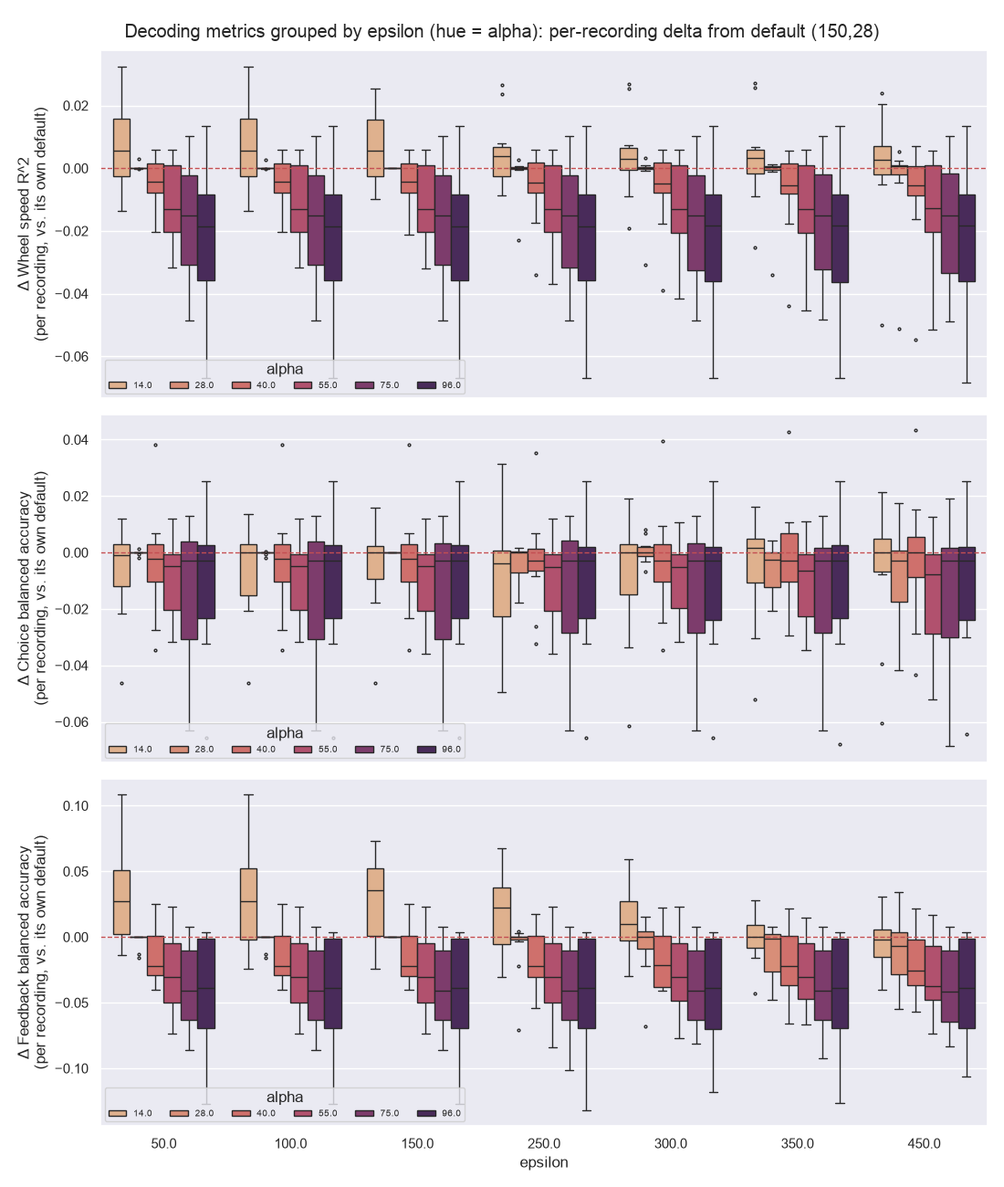
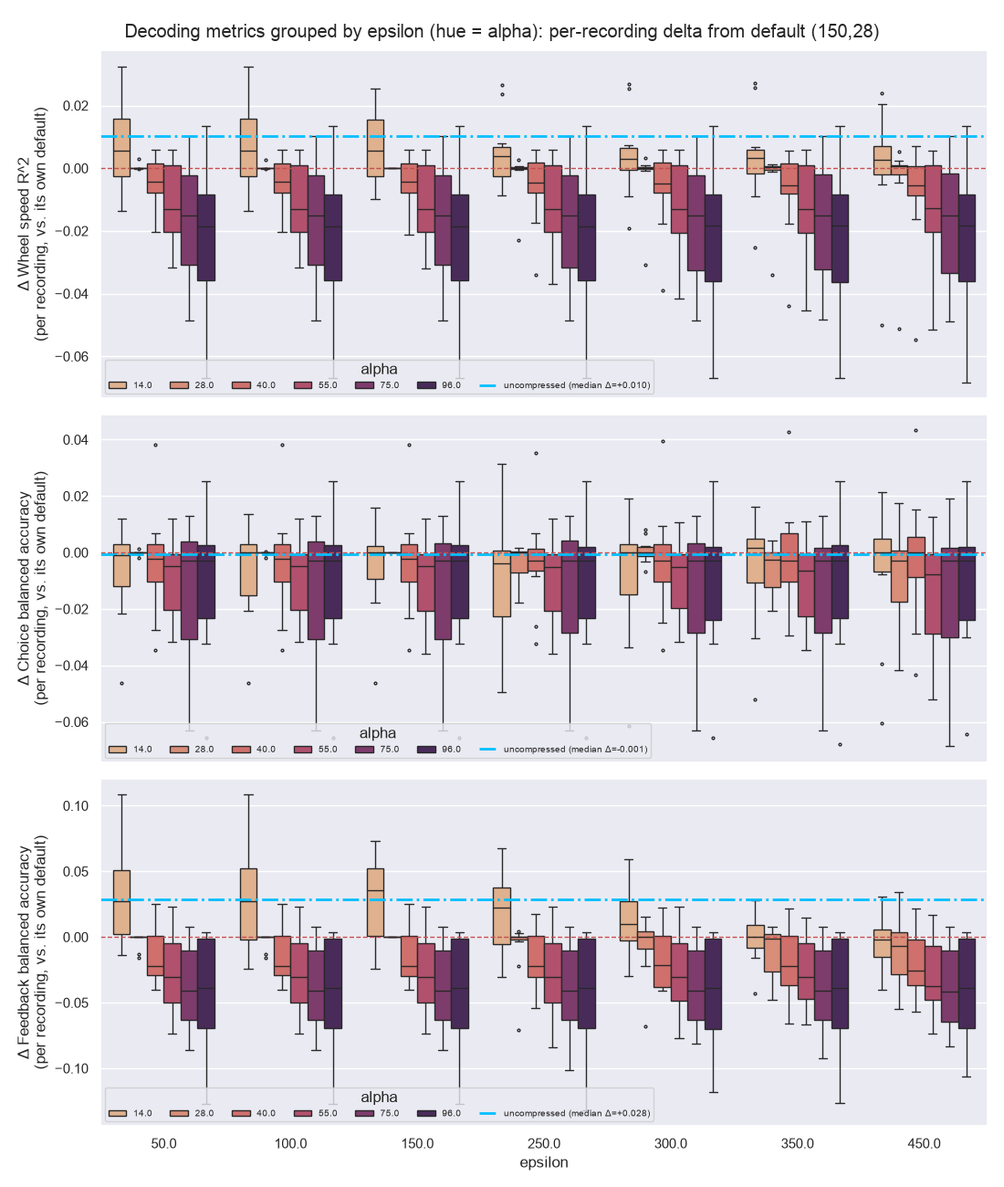
Anchor grid displays to the uncompressed baseline, drop curves figure
Heatmaps get a literal (epsilon=0, alpha=0) corner cell; the Pareto
scatter gets the literal (CR=1, retained=1.0) point; the boxplot and
barplot (which don't have an epsilon/alpha x-position for a single
scalar) get a reference line instead. Also enlarged the Pareto figure
and made "retained fraction" explicit in the axis labels, and dropped
the curves-per-alpha figure (redundant with the heatmaps).

diff --git a/_site/analyses/2026-06-lfp-compression-svd/compression_tuning.html b/_site/analyses/2026-06-lfp-compression-svd/compression_tuning.html
@@ -176,7 +176,7 @@ pre > code.sourceCode > span > a:first-child::before { text-decoration: underlin
 </nav>
     </div>
 <!-- main -->
-<main class="content" id="quarto-document-content">
+<main class="content page-columns page-full" id="quarto-document-content">
 
 <header id="title-block-header" class="quarto-title-block default">
 <div class="quarto-title">
@@ -275,7 +275,7 @@ pre > code.sourceCode > span > a:first-child::before { text-decoration: underlin
 </section>
 <section id="does-compression-hurt-decoding" class="level2">
 <h2 class="anchored" data-anchor-id="does-compression-hurt-decoding">Does compression hurt decoding?</h2>
-<div id="8e6b793a" class="cell" data-execution_count="1">
+<div id="e4349c9a" class="cell" data-execution_count="1">
 <div class="cell-output cell-output-display" data-execution_count="1">
 <div>
 
@@ -358,7 +358,7 @@ pre > code.sourceCode > span > a:first-child::before { text-decoration: underlin
 <section id="searching-for-an-intermediate-tier" class="level2">
 <h2 class="anchored" data-anchor-id="searching-for-an-intermediate-tier">Searching for an intermediate tier</h2>
 <p>Sweeping <strong>ε alone</strong> (α=28 fixed, ε ∈ 150–450) or <strong>α alone</strong> (ε=150 fixed, α ∈ 28–96) both left total file size across the 11 recordings essentially flat (0.242 GB → ~0.21 GB either way, an ~13% reduction). But their effect on decoding fidelity is <em>not</em> symmetric, and the raw per- recording numbers are easy to misread here: feedback balanced accuracy varies enormously between recordings (SD ≈0.11 at a single grid cell — some recordings decode feedback near chance, others above 0.8), which swamps both parameters’ effects unless it’s controlled for. A paired per-recording test (same 11 recordings, before vs.&nbsp;after moving one parameter) shows they’re not equivalent: moving <strong>α</strong> from 28→96 (ε=150 fixed) drops feedback balanced accuracy in <strong>10/11 recordings</strong> (Wilcoxon p=0.005) — a real, consistent effect. Moving <strong>ε</strong> from 150→450 (α=28 fixed) only drops it in 6/11 (p=0.17) — <strong>not distinguishable from between-recording noise</strong>, and driven almost entirely by two strong-feedback-decoding recordings rather than a general effect. So: α alone reliably costs decoding fidelity without buying compression; ε alone buys no compression either, but its apparent decoding cost mostly isn’t real. Yet at ε=450, moving α from 28→96 — the shipped aggressive tier vs.&nbsp;the same ε at default’s α — <em>nearly halves</em> the file size (0.211 GB → 0.098 GB): the ε/α interaction described above, in action. Real compression only appears when both are pushed together.</p>
-<div id="cefd46b8" class="cell" data-execution_count="2">
+<div id="a0b0cc27" class="cell" data-execution_count="2">
 <div class="cell-output cell-output-display" data-execution_count="2">
 <div>
 
@@ -443,10 +443,10 @@ pre > code.sourceCode > span > a:first-child::before { text-decoration: underlin
 </div>
 <p>Realized CR climbs steadily (87×→104×→128×→217×) as feedback retention falls in step (0.688→0.530→0.410→0.402) — <strong>no free knee</strong>: every step away from default costs real fidelity immediately. <code>eps350/alpha75</code> is dominated by the shipped aggressive tier (almost the same feedback cost, barely half the compression) — not worth using. This diagonal only sampled the line between two points, though — the full grid below covers the surface.</p>
 </section>
-<section id="full-2d-grid" class="level2">
+<section id="full-2d-grid" class="level2 page-columns page-full">
 <h2 class="anchored" data-anchor-id="full-2d-grid">Full 2D grid</h2>
 <p>ε ∈ {50, 100, 150, 250, 300, 350, 450} × α ∈ {14, 28, 40, 55, 75, 96} — 42 cells (milder than default through the shipped aggressive point), all 11 recordings, all three decode targets.</p>
-<div id="48a1a414" class="cell" data-execution_count="3">
+<div id="ea8356e5" class="cell" data-execution_count="3">
 <div class="cell-output cell-output-display" data-execution_count="3">
 <div>
 
@@ -780,34 +780,31 @@ pre > code.sourceCode > span > a:first-child::before { text-decoration: underlin
 </div>
 <div class="quarto-figure quarto-figure-center">
 <figure class="figure">
-<p><a href="figures/2026-09-01_grid_heatmaps.png" class="lightbox" data-gallery="quarto-lightbox-gallery-5" title="Mean decode metrics and realized CR over the full (ε, α) grid."><img src="figures/2026-09-01_grid_heatmaps.png" class="img-fluid figure-img" alt="Mean decode metrics and realized CR over the full (ε, α) grid."></a></p>
-<figcaption>Mean decode metrics and realized CR over the full (ε, α) grid.</figcaption>
+<p><a href="figures/2026-09-01_grid_heatmaps.png" class="lightbox" data-gallery="quarto-lightbox-gallery-5" title="Mean decode metrics and realized CR over the full (ε, α) grid. Uncompressed is added as a literal (ε=0, α=0) corner cell; the rest of that extra row/column is left blank."><img src="figures/2026-09-01_grid_heatmaps.png" class="img-fluid figure-img" alt="Mean decode metrics and realized CR over the full (ε, α) grid. Uncompressed is added as a literal (ε=0, α=0) corner cell; the rest of that extra row/column is left blank."></a></p>
+<figcaption>Mean decode metrics and realized CR over the full (ε, α) grid. Uncompressed is added as a literal (ε=0, α=0) corner cell; the rest of that extra row/column is left blank.</figcaption>
 </figure>
 </div>
-<p>The heatmaps make the asymmetry from the previous section visible directly: wheel and feedback both shift clearly moving <em>across</em> alpha (columns) but barely at all moving <em>down</em> epsilon (rows) — until the (450, 96) corner, which stands out as a clear outlier in the CR panel (217× vs.&nbsp;140× and 135× in its immediate neighbors), the interaction in action.</p>
+<p>The heatmaps make the asymmetry from the previous section visible directly: wheel and feedback both shift clearly moving <em>across</em> alpha (columns) but barely at all moving <em>down</em> epsilon (rows) — until the (450, 96) corner, which stands out as a clear outlier in the CR panel (217× vs.&nbsp;140× and 135× in its immediate neighbors), the interaction in action. The corner cells also show plainly how close default’s decode metrics already sit to uncompressed (0.127 vs.&nbsp;0.139 wheel R², 0.597 vs.&nbsp;0.642 feedback), and how far realized CR has to climb from uncompressed’s 1×.</p>
 <div class="quarto-figure quarto-figure-center">
 <figure class="figure">
-<p><a href="figures/2026-09-01_grid_boxplots_by_epsilon.png" class="lightbox" data-gallery="quarto-lightbox-gallery-6" title="Decoding metrics grouped by epsilon (hue = alpha), plotted as each recording’s own delta from its default (150,28) cell — this removes the ~0.11 SD between-recording offset that hides the effect in raw values."><img src="figures/2026-09-01_grid_boxplots_by_epsilon.png" class="img-fluid figure-img" alt="Decoding metrics grouped by epsilon (hue = alpha), plotted as each recording’s own delta from its default (150,28) cell — this removes the ~0.11 SD between-recording offset that hides the effect in raw values."></a></p>
-<figcaption>Decoding metrics grouped by epsilon (hue = alpha), plotted as each recording’s own delta from its default (150,28) cell — this removes the ~0.11 SD between-recording offset that hides the effect in raw values.</figcaption>
-</figure>
-</div>
-<div class="quarto-figure quarto-figure-center">
-<figure class="figure">
-<p><a href="figures/2026-09-01_grid_barplot_size_by_epsilon.png" class="lightbox" data-gallery="quarto-lightbox-gallery-7" title="Total compressed size grouped by epsilon (hue = alpha) — the (450,96) bar is visibly shorter than its neighbors, again the interaction."><img src="figures/2026-09-01_grid_barplot_size_by_epsilon.png" class="img-fluid figure-img" alt="Total compressed size grouped by epsilon (hue = alpha) — the (450,96) bar is visibly shorter than its neighbors, again the interaction."></a></p>
-<figcaption>Total compressed size grouped by epsilon (hue = alpha) — the (450,96) bar is visibly shorter than its neighbors, again the interaction.</figcaption>
+<p><a href="figures/2026-09-01_grid_boxplots_by_epsilon.png" class="lightbox" data-gallery="quarto-lightbox-gallery-6" title="Decoding metrics grouped by epsilon (hue = alpha), plotted as each recording’s own delta from its default (150,28) cell — this removes the ~0.11 SD between-recording offset that hides the effect in raw values. Uncompressed (blue dash-dot line) is each recording’s own delta between its uncompressed and default scores, since it doesn’t sit at any (ε, α) x-position."><img src="figures/2026-09-01_grid_boxplots_by_epsilon.png" class="img-fluid figure-img" alt="Decoding metrics grouped by epsilon (hue = alpha), plotted as each recording’s own delta from its default (150,28) cell — this removes the ~0.11 SD between-recording offset that hides the effect in raw values. Uncompressed (blue dash-dot line) is each recording’s own delta between its uncompressed and default scores, since it doesn’t sit at any (ε, α) x-position."></a></p>
+<figcaption>Decoding metrics grouped by epsilon (hue = alpha), plotted as each recording’s own delta from its default (150,28) cell — this removes the ~0.11 SD between-recording offset that hides the effect in raw values. Uncompressed (blue dash-dot line) is each recording’s own delta between its uncompressed and default scores, since it doesn’t sit at any (ε, α) x-position.</figcaption>
 </figure>
 </div>
 <div class="quarto-figure quarto-figure-center">
 <figure class="figure">
-<p><a href="figures/2026-09-01_grid_curves_per_alpha.png" class="lightbox" data-gallery="quarto-lightbox-gallery-8" title="Curves per alpha vs.&nbsp;epsilon (thin = per-recording, heavy = median). Decoding curves are nearly flat against epsilon at any fixed alpha; only CR keeps climbing, and does so more steeply for higher alpha."><img src="figures/2026-09-01_grid_curves_per_alpha.png" class="img-fluid figure-img" alt="Curves per alpha vs.&nbsp;epsilon (thin = per-recording, heavy = median). Decoding curves are nearly flat against epsilon at any fixed alpha; only CR keeps climbing, and does so more steeply for higher alpha."></a></p>
-<figcaption>Curves per alpha vs.&nbsp;epsilon (thin = per-recording, heavy = median). Decoding curves are nearly flat against epsilon at any fixed alpha; only CR keeps climbing, and does so more steeply for higher alpha.</figcaption>
+<p><a href="figures/2026-09-01_grid_barplot_size_by_epsilon.png" class="lightbox" data-gallery="quarto-lightbox-gallery-7" title="Total compressed size grouped by epsilon (hue = alpha), with the uncompressed total (20.4 GB, blue dash-dot line) for scale — every tested tier is at least ~40× smaller. The (450,96) bar is visibly shorter than its neighbors, again the interaction."><img src="figures/2026-09-01_grid_barplot_size_by_epsilon.png" class="img-fluid figure-img" alt="Total compressed size grouped by epsilon (hue = alpha), with the uncompressed total (20.4 GB, blue dash-dot line) for scale — every tested tier is at least ~40× smaller. The (450,96) bar is visibly shorter than its neighbors, again the interaction."></a></p>
+<figcaption>Total compressed size grouped by epsilon (hue = alpha), with the uncompressed total (20.4 GB, blue dash-dot line) for scale — every tested tier is at least ~40× smaller. The (450,96) bar is visibly shorter than its neighbors, again the interaction.</figcaption>
 </figure>
 </div>
-<div class="quarto-figure quarto-figure-center">
-<figure class="figure">
-<p><a href="figures/2026-09-01_grid_pareto.png" class="lightbox" data-gallery="quarto-lightbox-gallery-9" title="Pareto: realized CR vs.&nbsp;chance/zero-corrected retained decode fraction, one panel per target (marker size = alpha, colour = epsilon). Default (red star) sits on the frontier for wheel and near it for feedback."><img src="figures/2026-09-01_grid_pareto.png" class="img-fluid figure-img" alt="Pareto: realized CR vs.&nbsp;chance/zero-corrected retained decode fraction, one panel per target (marker size = alpha, colour = epsilon). Default (red star) sits on the frontier for wheel and near it for feedback."></a></p>
-<figcaption>Pareto: realized CR vs.&nbsp;chance/zero-corrected retained decode fraction, one panel per target (marker size = alpha, colour = epsilon). Default (red star) sits on the frontier for wheel and near it for feedback.</figcaption>
+<p><strong>Retained fraction</strong> (below) is how much of the uncompressed decode a tier keeps: for wheel, <code>R²(tier) / R²(uncompressed)</code>; for choice/feedback, <code>(balanced_accuracy(tier) - 0.5) / (balanced_accuracy(uncompressed) - 0.5)</code> — chance-corrected, since balanced accuracy’s floor is 0.5, not 0. 1.0 means indistinguishable from uncompressed.</p>
+<div class="page-columns page-full">
+<div class="quarto-figure quarto-figure-center page-columns page-full">
+<figure class="figure page-columns page-full">
+<p class="page-columns page-full"><a href="figures/2026-09-01_grid_pareto.png" class="lightbox page-columns page-full" data-gallery="quarto-lightbox-gallery-8" title="Pareto: realized CR vs.&nbsp;retained decode fraction, one panel per target (marker size = alpha, colour = epsilon). Uncompressed (blue diamond) is the literal point (CR=1, retained=1.0) on these axes. Default (red star) sits on the frontier for wheel and near it for feedback."><img src="figures/2026-09-01_grid_pareto.png" class="img-fluid figure-img column-page" alt="Pareto: realized CR vs.&nbsp;retained decode fraction, one panel per target (marker size = alpha, colour = epsilon). Uncompressed (blue diamond) is the literal point (CR=1, retained=1.0) on these axes. Default (red star) sits on the frontier for wheel and near it for feedback."></a></p>
+<figcaption>Pareto: realized CR vs.&nbsp;retained decode fraction, one panel per target (marker size = alpha, colour = epsilon). Uncompressed (blue diamond) is the literal point (CR=1, retained=1.0) on these axes. Default (red star) sits on the frontier for wheel and near it for feedback.</figcaption>
 </figure>
+</div>
 </div>
 <p><strong>The true Pareto frontier</strong> (cells where no other cell has both higher realized CR and higher retained feedback) contains 16 of the 42 cells, and default (150, 28) is on it — nothing dominates it. Stepping along the frontier past default is a real, gradual trade the whole way: (300, 28) barely improves CR (89× vs.&nbsp;87×) for a real feedback cost (retained fraction 0.640 vs.&nbsp;0.688); (350, 28) and (450, 28) are close together and both meaningfully better value — (450, 28) reaches 100× for retained fraction 0.603, a small further cost over (350, 28)’s 93×/0.605 for real extra compression. Past that, the frontier only continues by also raising α, which is where the interaction — and the larger feedback cost — kicks in.</p>
 </section>
@@ -1406,48 +1403,55 @@ pre > code.sourceCode > span > a:first-child::before { text-decoration: underlin
 <span id="cb1-132"><a href="#cb1-132" aria-hidden="true" tabindex="-1"></a>                                     <span class="st">"balanced_accuracy_feedback"</span>, <span class="st">"cr_realized"</span>]].mean().<span class="bu">round</span>(<span class="dv">3</span>)</span>
 <span id="cb1-133"><a href="#cb1-133" aria-hidden="true" tabindex="-1"></a><span class="in">```</span></span>
 <span id="cb1-134"><a href="#cb1-134" aria-hidden="true" tabindex="-1"></a></span>
-<span id="cb1-135"><a href="#cb1-135" aria-hidden="true" tabindex="-1"></a><span class="al">![Mean decode metrics and realized CR over the full (ε, α) grid.](figures/2026-09-01_grid_heatmaps.png)</span>{.lightbox}</span>
+<span id="cb1-135"><a href="#cb1-135" aria-hidden="true" tabindex="-1"></a><span class="al">![Mean decode metrics and realized CR over the full (ε, α) grid. Uncompressed is added as a literal (ε=0, α=0) corner cell; the rest of that extra row/column is left blank.](figures/2026-09-01_grid_heatmaps.png)</span>{.lightbox}</span>
 <span id="cb1-136"><a href="#cb1-136" aria-hidden="true" tabindex="-1"></a></span>
 <span id="cb1-137"><a href="#cb1-137" aria-hidden="true" tabindex="-1"></a>The heatmaps make the asymmetry from the previous section visible directly: wheel and feedback</span>
 <span id="cb1-138"><a href="#cb1-138" aria-hidden="true" tabindex="-1"></a>both shift clearly moving *across* alpha (columns) but barely at all moving *down* epsilon</span>
 <span id="cb1-139"><a href="#cb1-139" aria-hidden="true" tabindex="-1"></a>(rows) — until the (450, 96) corner, which stands out as a clear outlier in the CR panel (217×</span>
-<span id="cb1-140"><a href="#cb1-140" aria-hidden="true" tabindex="-1"></a>vs. 140× and 135× in its immediate neighbors), the interaction in action.</span>
-<span id="cb1-141"><a href="#cb1-141" aria-hidden="true" tabindex="-1"></a></span>
-<span id="cb1-142"><a href="#cb1-142" aria-hidden="true" tabindex="-1"></a><span class="al">![Decoding metrics grouped by epsilon (hue = alpha), plotted as each recording's own delta from its default (150,28) cell — this removes the ~0.11 SD between-recording offset that hides the effect in raw values.](figures/2026-09-01_grid_boxplots_by_epsilon.png)</span>{.lightbox}</span>
+<span id="cb1-140"><a href="#cb1-140" aria-hidden="true" tabindex="-1"></a>vs. 140× and 135× in its immediate neighbors), the interaction in action. The corner cells also</span>
+<span id="cb1-141"><a href="#cb1-141" aria-hidden="true" tabindex="-1"></a>show plainly how close default's decode metrics already sit to uncompressed (0.127 vs. 0.139</span>
+<span id="cb1-142"><a href="#cb1-142" aria-hidden="true" tabindex="-1"></a>wheel R², 0.597 vs. 0.642 feedback), and how far realized CR has to climb from uncompressed's 1×.</span>
 <span id="cb1-143"><a href="#cb1-143" aria-hidden="true" tabindex="-1"></a></span>
-<span id="cb1-144"><a href="#cb1-144" aria-hidden="true" tabindex="-1"></a><span class="al">![Total compressed size grouped by epsilon (hue = alpha) — the (450,96) bar is visibly shorter than its neighbors, again the interaction.](figures/2026-09-01_grid_barplot_size_by_epsilon.png)</span>{.lightbox}</span>
+<span id="cb1-144"><a href="#cb1-144" aria-hidden="true" tabindex="-1"></a><span class="al">![Decoding metrics grouped by epsilon (hue = alpha), plotted as each recording's own delta from its default (150,28) cell — this removes the ~0.11 SD between-recording offset that hides the effect in raw values. Uncompressed (blue dash-dot line) is each recording's own delta between its uncompressed and default scores, since it doesn't sit at any (ε, α) x-position.](figures/2026-09-01_grid_boxplots_by_epsilon.png)</span>{.lightbox}</span>
 <span id="cb1-145"><a href="#cb1-145" aria-hidden="true" tabindex="-1"></a></span>
-<span id="cb1-146"><a href="#cb1-146" aria-hidden="true" tabindex="-1"></a><span class="al">![Curves per alpha vs. epsilon (thin = per-recording, heavy = median). Decoding curves are nearly flat against epsilon at any fixed alpha; only CR keeps climbing, and does so more steeply for higher alpha.](figures/2026-09-01_grid_curves_per_alpha.png)</span>{.lightbox}</span>
+<span id="cb1-146"><a href="#cb1-146" aria-hidden="true" tabindex="-1"></a><span class="al">![Total compressed size grouped by epsilon (hue = alpha), with the uncompressed total (20.4 GB, blue dash-dot line) for scale — every tested tier is at least ~40× smaller. The (450,96) bar is visibly shorter than its neighbors, again the interaction.](figures/2026-09-01_grid_barplot_size_by_epsilon.png)</span>{.lightbox}</span>
 <span id="cb1-147"><a href="#cb1-147" aria-hidden="true" tabindex="-1"></a></span>
-<span id="cb1-148"><a href="#cb1-148" aria-hidden="true" tabindex="-1"></a><span class="al">![Pareto: realized CR vs. chance/zero-corrected retained decode fraction, one panel per target (marker size = alpha, colour = epsilon). Default (red star) sits on the frontier for wheel and near it for feedback.](figures/2026-09-01_grid_pareto.png)</span>{.lightbox}</span>
-<span id="cb1-149"><a href="#cb1-149" aria-hidden="true" tabindex="-1"></a></span>
-<span id="cb1-150"><a href="#cb1-150" aria-hidden="true" tabindex="-1"></a>**The true Pareto frontier** (cells where no other cell has both higher realized CR and higher</span>
-<span id="cb1-151"><a href="#cb1-151" aria-hidden="true" tabindex="-1"></a>retained feedback) contains 16 of the 42 cells, and default (150, 28) is on it — nothing</span>
-<span id="cb1-152"><a href="#cb1-152" aria-hidden="true" tabindex="-1"></a>dominates it. Stepping along the frontier past default is a real, gradual trade the whole way:</span>
-<span id="cb1-153"><a href="#cb1-153" aria-hidden="true" tabindex="-1"></a>(300, 28) barely improves CR (89× vs. 87×) for a real feedback cost (retained fraction</span>
-<span id="cb1-154"><a href="#cb1-154" aria-hidden="true" tabindex="-1"></a>0.640 vs. 0.688); (350, 28) and (450, 28) are close together and both meaningfully better value</span>
-<span id="cb1-155"><a href="#cb1-155" aria-hidden="true" tabindex="-1"></a>— (450, 28) reaches 100× for retained fraction 0.603, a small further cost over (350, 28)'s</span>
-<span id="cb1-156"><a href="#cb1-156" aria-hidden="true" tabindex="-1"></a>93×/0.605 for real extra compression. Past that, the frontier only continues by also raising α,</span>
-<span id="cb1-157"><a href="#cb1-157" aria-hidden="true" tabindex="-1"></a>which is where the interaction — and the larger feedback cost — kicks in.</span>
-<span id="cb1-158"><a href="#cb1-158" aria-hidden="true" tabindex="-1"></a></span>
-<span id="cb1-159"><a href="#cb1-159" aria-hidden="true" tabindex="-1"></a><span class="fu">## Recommendation</span></span>
-<span id="cb1-160"><a href="#cb1-160" aria-hidden="true" tabindex="-1"></a></span>
-<span id="cb1-161"><a href="#cb1-161" aria-hidden="true" tabindex="-1"></a><span class="ss">- </span>**Keep default (ε=150, α=28)** as the standard cohort-wide tier — it's Pareto-efficient, and</span>
-<span id="cb1-162"><a href="#cb1-162" aria-hidden="true" tabindex="-1"></a>  every tested alternative trades away real feedback fidelity.</span>
-<span id="cb1-163"><a href="#cb1-163" aria-hidden="true" tabindex="-1"></a><span class="ss">- </span>**If more compression is required, use ε=450, α=28** — 100× realized CR (0.211 GB vs.</span>
-<span id="cb1-164"><a href="#cb1-164" aria-hidden="true" tabindex="-1"></a>  default's 0.242 GB across the 11 recordings, both tiny next to uncompressed's 20.4 GB), R²</span>
-<span id="cb1-165"><a href="#cb1-165" aria-hidden="true" tabindex="-1"></a>  0.122 vs. default's 0.127, feedback balanced accuracy 0.585 vs. default's 0.597. That</span>
-<span id="cb1-166"><a href="#cb1-166" aria-hidden="true" tabindex="-1"></a>  feedback gap is not statistically distinguishable from between-recording noise (paired</span>
-<span id="cb1-167"><a href="#cb1-167" aria-hidden="true" tabindex="-1"></a>  Wilcoxon p=0.17) — the best-value, lowest-risk upgrade found on the whole grid.</span>
-<span id="cb1-168"><a href="#cb1-168" aria-hidden="true" tabindex="-1"></a><span class="ss">- </span>**Retire the aggressive tier (ε=450, α=96).** Nothing between ε=450/α=28 and aggressive is</span>
-<span id="cb1-169"><a href="#cb1-169" aria-hidden="true" tabindex="-1"></a>  worth shipping — the frontier only gets there by also raising α, which is where the real,</span>
-<span id="cb1-170"><a href="#cb1-170" aria-hidden="true" tabindex="-1"></a>  significant decoding cost (p=0.005) lives.</span>
-<span id="cb1-171"><a href="#cb1-171" aria-hidden="true" tabindex="-1"></a><span class="ss">- </span>**Worth knowing:** the α=14 row (any ε) gives noticeably *better* feedback retention than</span>
-<span id="cb1-172"><a href="#cb1-172" aria-hidden="true" tabindex="-1"></a>  default (up to 0.90) at a real storage cost (38–70× vs. default's 87×) — an option if a</span>
-<span id="cb1-173"><a href="#cb1-173" aria-hidden="true" tabindex="-1"></a>  future use case needs to beat default's fidelity rather than just approach it.</span>
-<span id="cb1-174"><a href="#cb1-174" aria-hidden="true" tabindex="-1"></a><span class="ss">- </span>**Build command** (per-recording, ≈10–60 s from the existing Cadzow checkpoint, no</span>
-<span id="cb1-175"><a href="#cb1-175" aria-hidden="true" tabindex="-1"></a>  re-download needed): `lfpack.compress_to_h5(cadzow_npy, out_h5, recording=pid, epsilon=450.0,</span>
-<span id="cb1-176"><a href="#cb1-176" aria-hidden="true" tabindex="-1"></a>  alpha=28.0, fs=250.0, ...)`.</span>
+<span id="cb1-148"><a href="#cb1-148" aria-hidden="true" tabindex="-1"></a>**Retained fraction** (below) is how much of the uncompressed decode a tier keeps: for wheel,</span>
+<span id="cb1-149"><a href="#cb1-149" aria-hidden="true" tabindex="-1"></a><span class="in">`R²(tier) / R²(uncompressed)`</span>; for choice/feedback, `(balanced_accuracy(tier) - 0.5) /</span>
+<span id="cb1-150"><a href="#cb1-150" aria-hidden="true" tabindex="-1"></a>(balanced_accuracy(uncompressed) - 0.5)` — chance-corrected, since balanced accuracy's floor is</span>
+<span id="cb1-151"><a href="#cb1-151" aria-hidden="true" tabindex="-1"></a>0.5, not 0. 1.0 means indistinguishable from uncompressed.</span>
+<span id="cb1-152"><a href="#cb1-152" aria-hidden="true" tabindex="-1"></a></span>
+<span id="cb1-153"><a href="#cb1-153" aria-hidden="true" tabindex="-1"></a>::: {.column-page}</span>
+<span id="cb1-154"><a href="#cb1-154" aria-hidden="true" tabindex="-1"></a><span class="al">![Pareto: realized CR vs. retained decode fraction, one panel per target (marker size = alpha, colour = epsilon). Uncompressed (blue diamond) is the literal point (CR=1, retained=1.0) on these axes. Default (red star) sits on the frontier for wheel and near it for feedback.](figures/2026-09-01_grid_pareto.png)</span>{.lightbox}</span>
+<span id="cb1-155"><a href="#cb1-155" aria-hidden="true" tabindex="-1"></a>:::</span>
+<span id="cb1-156"><a href="#cb1-156" aria-hidden="true" tabindex="-1"></a></span>
+<span id="cb1-157"><a href="#cb1-157" aria-hidden="true" tabindex="-1"></a>**The true Pareto frontier** (cells where no other cell has both higher realized CR and higher</span>
+<span id="cb1-158"><a href="#cb1-158" aria-hidden="true" tabindex="-1"></a>retained feedback) contains 16 of the 42 cells, and default (150, 28) is on it — nothing</span>
+<span id="cb1-159"><a href="#cb1-159" aria-hidden="true" tabindex="-1"></a>dominates it. Stepping along the frontier past default is a real, gradual trade the whole way:</span>
+<span id="cb1-160"><a href="#cb1-160" aria-hidden="true" tabindex="-1"></a>(300, 28) barely improves CR (89× vs. 87×) for a real feedback cost (retained fraction</span>
+<span id="cb1-161"><a href="#cb1-161" aria-hidden="true" tabindex="-1"></a>0.640 vs. 0.688); (350, 28) and (450, 28) are close together and both meaningfully better value</span>
+<span id="cb1-162"><a href="#cb1-162" aria-hidden="true" tabindex="-1"></a>— (450, 28) reaches 100× for retained fraction 0.603, a small further cost over (350, 28)'s</span>
+<span id="cb1-163"><a href="#cb1-163" aria-hidden="true" tabindex="-1"></a>93×/0.605 for real extra compression. Past that, the frontier only continues by also raising α,</span>
+<span id="cb1-164"><a href="#cb1-164" aria-hidden="true" tabindex="-1"></a>which is where the interaction — and the larger feedback cost — kicks in.</span>
+<span id="cb1-165"><a href="#cb1-165" aria-hidden="true" tabindex="-1"></a></span>
+<span id="cb1-166"><a href="#cb1-166" aria-hidden="true" tabindex="-1"></a><span class="fu">## Recommendation</span></span>
+<span id="cb1-167"><a href="#cb1-167" aria-hidden="true" tabindex="-1"></a></span>
+<span id="cb1-168"><a href="#cb1-168" aria-hidden="true" tabindex="-1"></a><span class="ss">- </span>**Keep default (ε=150, α=28)** as the standard cohort-wide tier — it's Pareto-efficient, and</span>
+<span id="cb1-169"><a href="#cb1-169" aria-hidden="true" tabindex="-1"></a>  every tested alternative trades away real feedback fidelity.</span>
+<span id="cb1-170"><a href="#cb1-170" aria-hidden="true" tabindex="-1"></a><span class="ss">- </span>**If more compression is required, use ε=450, α=28** — 100× realized CR (0.211 GB vs.</span>
+<span id="cb1-171"><a href="#cb1-171" aria-hidden="true" tabindex="-1"></a>  default's 0.242 GB across the 11 recordings, both tiny next to uncompressed's 20.4 GB), R²</span>
+<span id="cb1-172"><a href="#cb1-172" aria-hidden="true" tabindex="-1"></a>  0.122 vs. default's 0.127, feedback balanced accuracy 0.585 vs. default's 0.597. That</span>
+<span id="cb1-173"><a href="#cb1-173" aria-hidden="true" tabindex="-1"></a>  feedback gap is not statistically distinguishable from between-recording noise (paired</span>
+<span id="cb1-174"><a href="#cb1-174" aria-hidden="true" tabindex="-1"></a>  Wilcoxon p=0.17) — the best-value, lowest-risk upgrade found on the whole grid.</span>
+<span id="cb1-175"><a href="#cb1-175" aria-hidden="true" tabindex="-1"></a><span class="ss">- </span>**Retire the aggressive tier (ε=450, α=96).** Nothing between ε=450/α=28 and aggressive is</span>
+<span id="cb1-176"><a href="#cb1-176" aria-hidden="true" tabindex="-1"></a>  worth shipping — the frontier only gets there by also raising α, which is where the real,</span>
+<span id="cb1-177"><a href="#cb1-177" aria-hidden="true" tabindex="-1"></a>  significant decoding cost (p=0.005) lives.</span>
+<span id="cb1-178"><a href="#cb1-178" aria-hidden="true" tabindex="-1"></a><span class="ss">- </span>**Worth knowing:** the α=14 row (any ε) gives noticeably *better* feedback retention than</span>
+<span id="cb1-179"><a href="#cb1-179" aria-hidden="true" tabindex="-1"></a>  default (up to 0.90) at a real storage cost (38–70× vs. default's 87×) — an option if a</span>
+<span id="cb1-180"><a href="#cb1-180" aria-hidden="true" tabindex="-1"></a>  future use case needs to beat default's fidelity rather than just approach it.</span>
+<span id="cb1-181"><a href="#cb1-181" aria-hidden="true" tabindex="-1"></a><span class="ss">- </span>**Build command** (per-recording, ≈10–60 s from the existing Cadzow checkpoint, no</span>
+<span id="cb1-182"><a href="#cb1-182" aria-hidden="true" tabindex="-1"></a>  re-download needed): `lfpack.compress_to_h5(cadzow_npy, out_h5, recording=pid, epsilon=450.0,</span>
+<span id="cb1-183"><a href="#cb1-183" aria-hidden="true" tabindex="-1"></a>  alpha=28.0, fs=250.0, ...)`.</span>
 </code></pre></div><button title="Copy to Clipboard" class="code-copy-button" data-in-quarto-modal=""><i class="bi"></i></button></div>
 </div></div></div></div></div>
 </div> <!-- /content -->

diff --git a/_site/index.html b/_site/index.html
@@ -269,7 +269,7 @@ window.Quarto = {
     </div>
 </div>
 <div class="list grid quarto-listing-cols-3">
[2 lines of base64/hex data omitted]
 <a href="./analyses/2026-06-lfp-compression-svd/compression_tuning.html" class="quarto-grid-link">
 <div class="quarto-grid-item card h-100 card-left">
 <div class="card-body post-contents">
